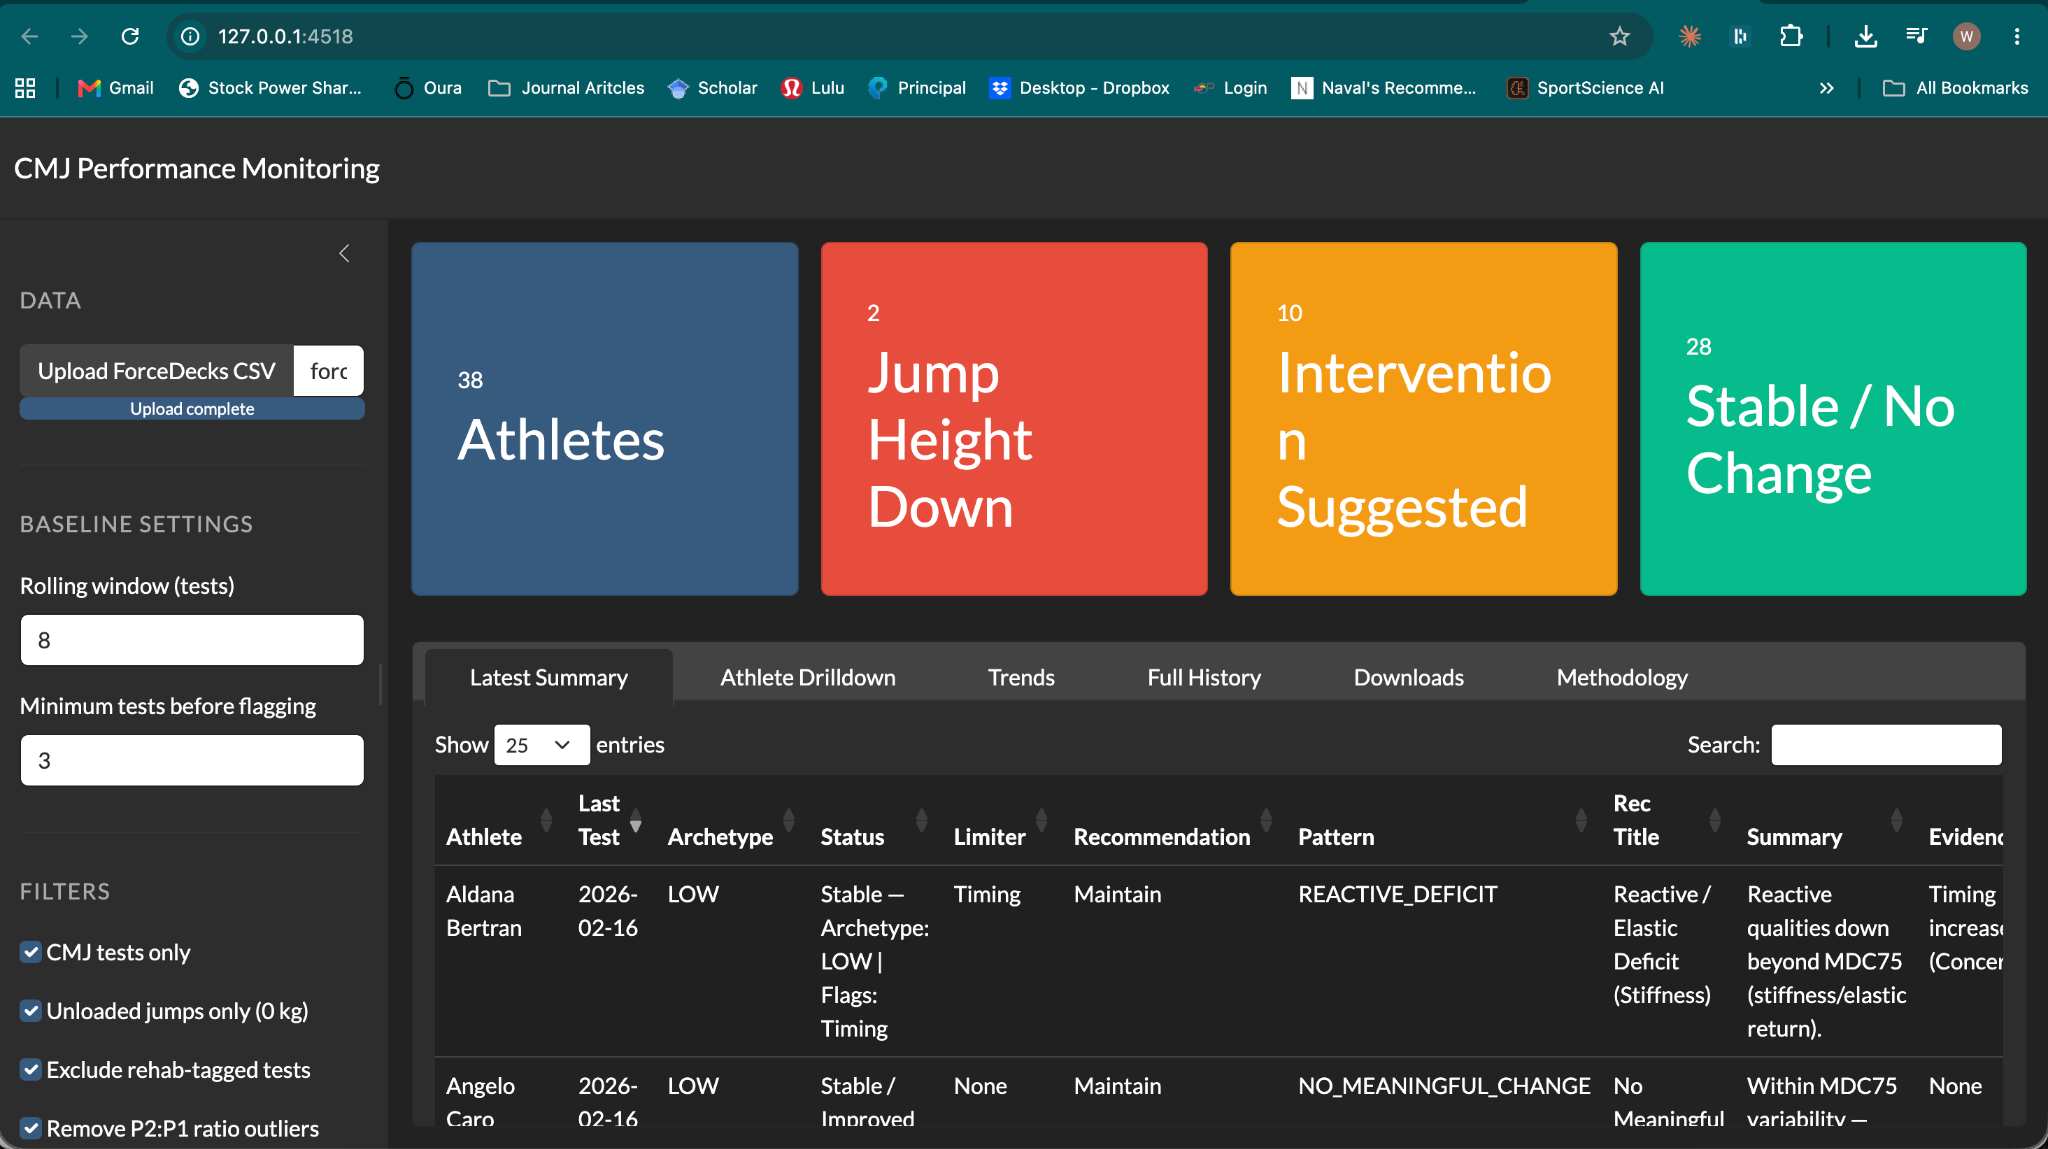
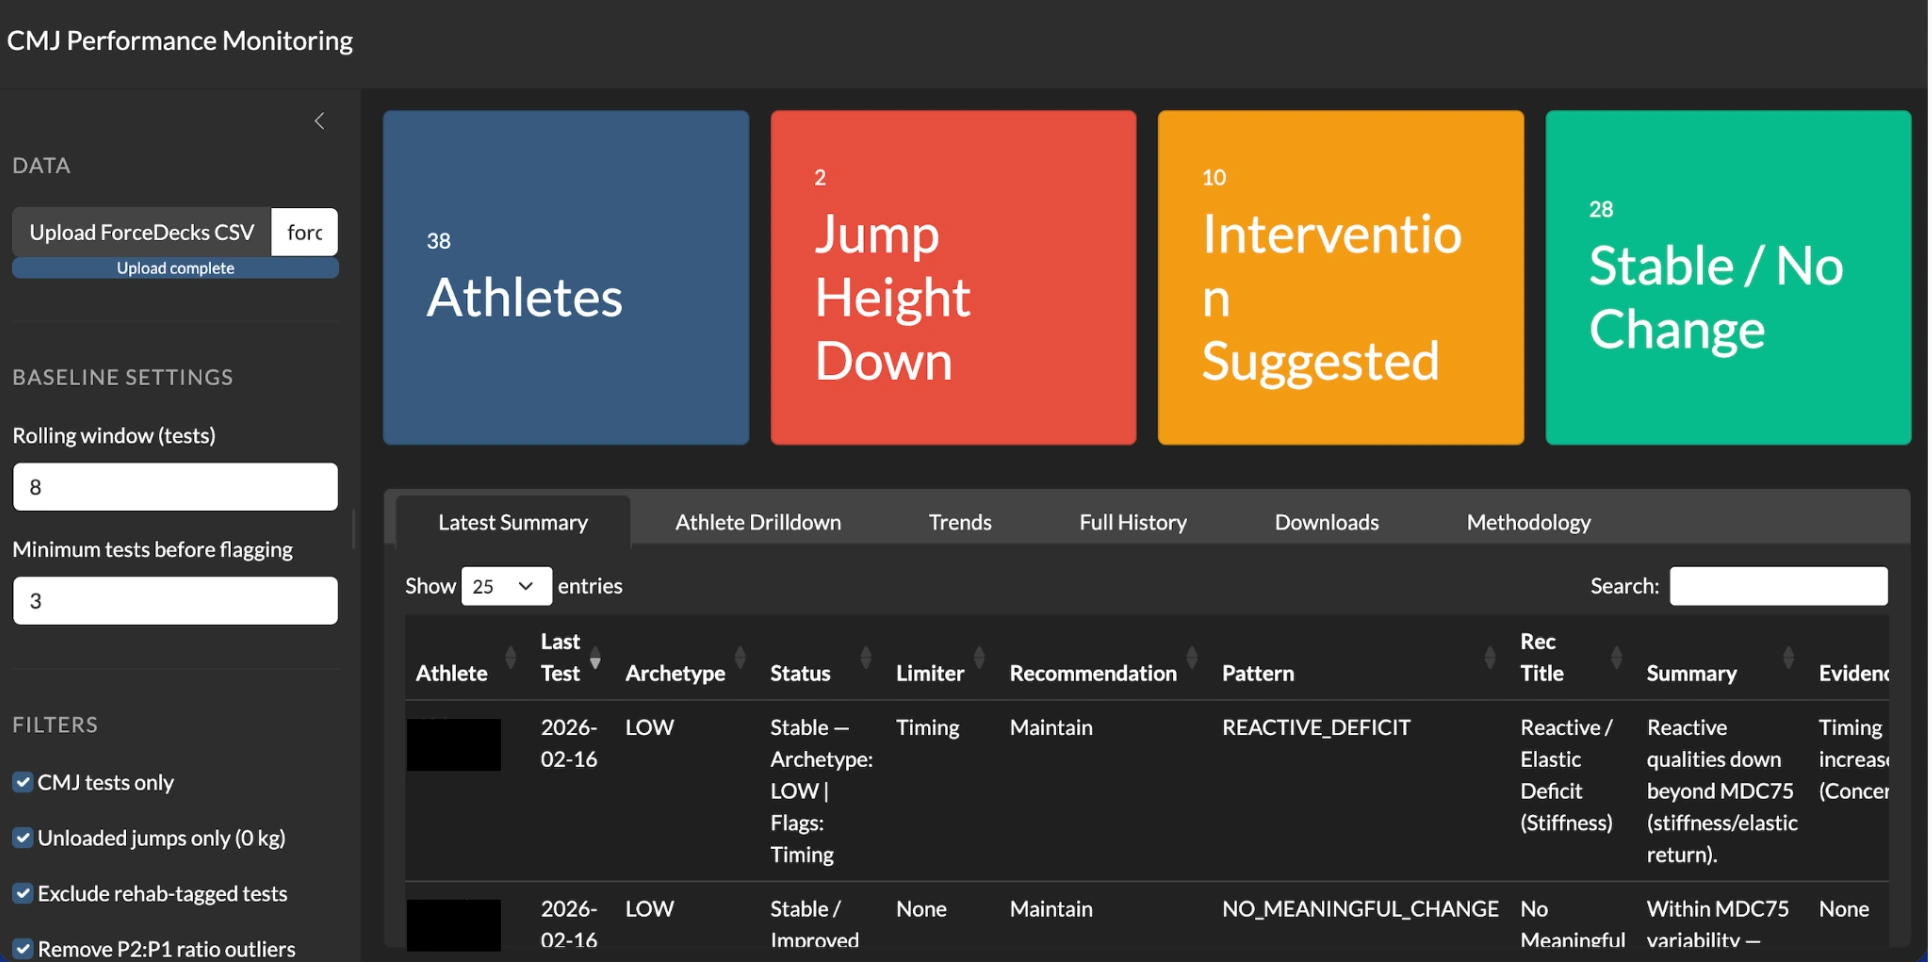
Replace CMJ dashboard screenshot with redacted version

diff --git a/src/content/work/force-plate-decisions.md b/src/content/work/force-plate-decisions.md
@@ -39,8 +39,8 @@
       "image": "images/cmj-application-clean.webp",
       "alt": "CMJ monitoring application showing aggregate counts, baseline settings, and an athlete summary table.",
       "caption": "Working CMJ monitoring application. The displayed counts describe this screenshot.",
-      "width": 2048,
-      "height": 1149
+      "width": 1932,
+      "height": 962
     },
     {
       "image": "images/cmj-tree-hd.webp",
